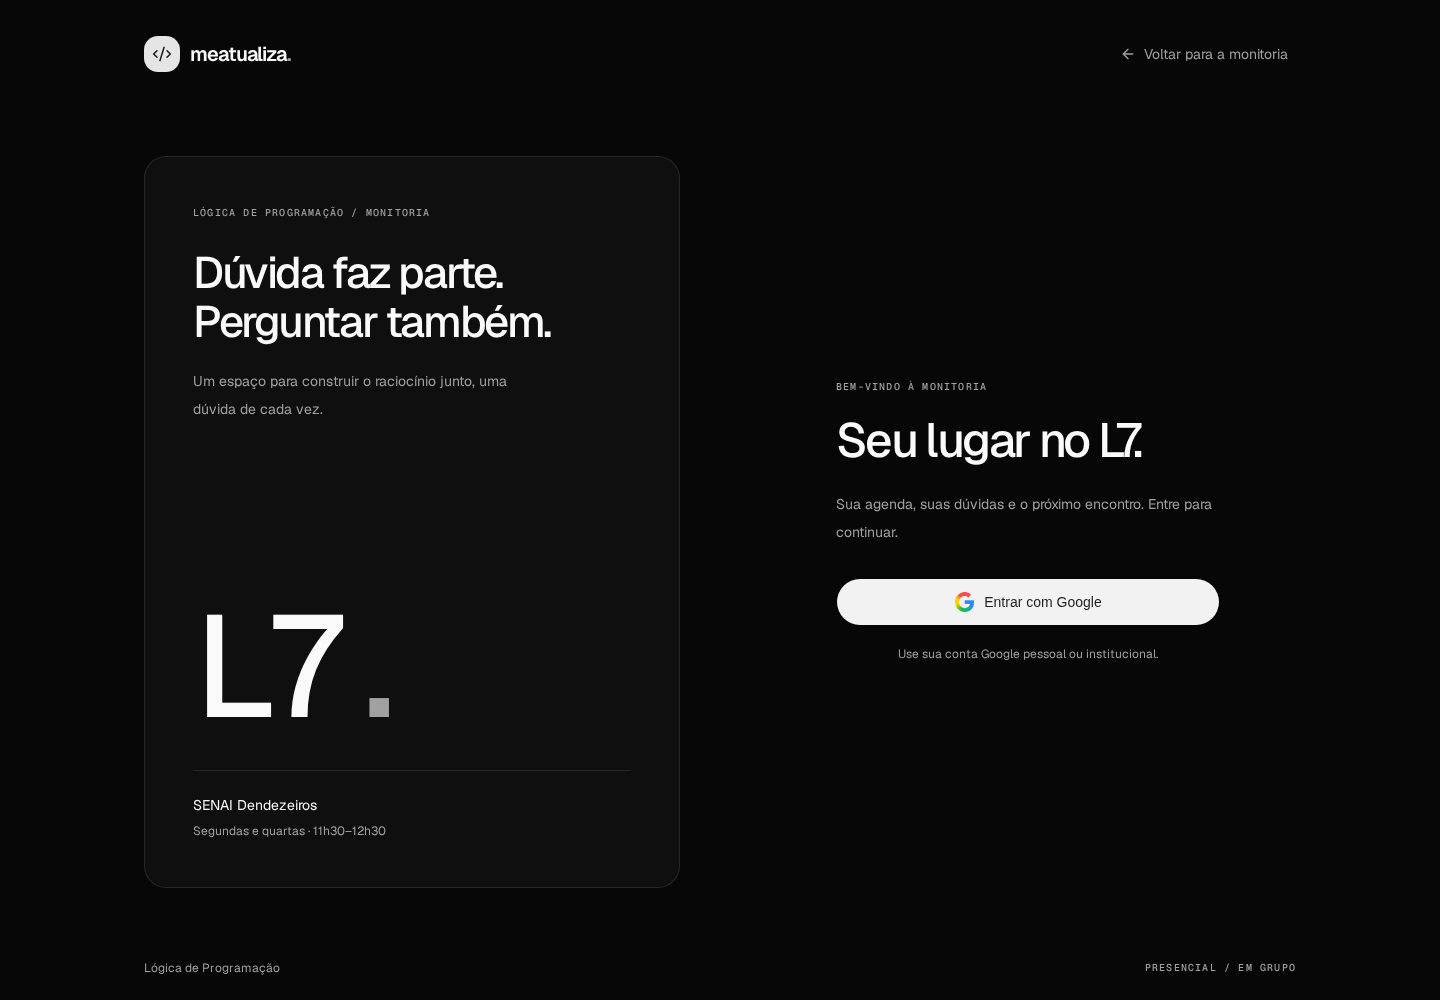
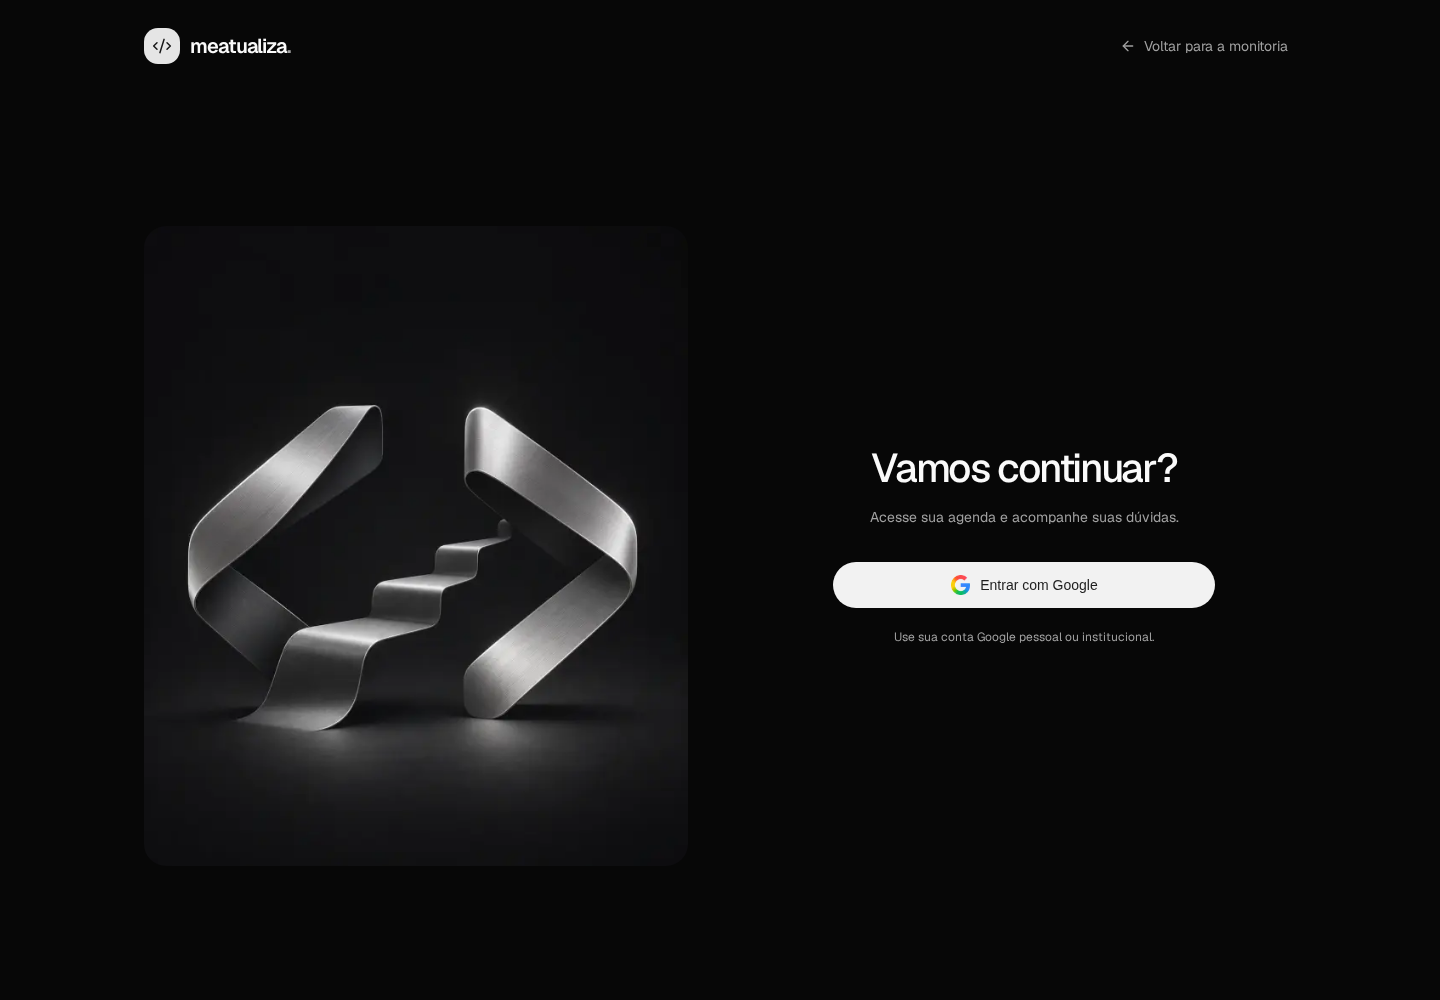
fix(auth): simplify and center sign-in layout

diff --git a/src/app/entrar/page.tsx b/src/app/entrar/page.tsx
@@ -1,4 +1,5 @@
 import type { Metadata } from "next";
+import Image from "next/image";
 import Link from "next/link";
 import { ArrowLeft } from "lucide-react";
 import { Brand } from "@/components/site/brand";
@@ -6,7 +7,6 @@ import { cookies } from "next/headers";
 import { redirect } from "next/navigation";
 import { GoogleSignIn } from "@/features/auth/actions";
 import { getAccountProfile, SESSION_COOKIE } from "@/lib/auth/session";
-import { monitoria } from "@/lib/monitoria";
 
 export const metadata: Metadata = { title: "Acesso à plataforma" };
 
@@ -17,7 +17,7 @@ export default async function SignInPage() {
   if (profile) redirect(profile.role === "monitor" ? "/monitor" : "/aluno");
   return (
     <div className="flex min-h-svh flex-1 flex-col">
-      <header className="site-container flex items-center justify-between gap-4 py-6 sm:py-8">
+      <header className="site-container flex items-center justify-between gap-4 py-4 sm:py-6">
         <Brand />
         <Link
           href="/"
@@ -33,69 +33,40 @@ export default async function SignInPage() {
       <main
         id="conteudo"
         tabIndex={-1}
-        className="site-container grid flex-1 items-center gap-12 py-10 sm:py-12 lg:grid-cols-2 lg:gap-20"
+        className="site-container grid flex-1 items-center gap-12 py-6 lg:grid-cols-2 lg:gap-16 lg:py-8"
       >
-        <aside
-          aria-label="Monitoria no laboratório L7"
-          className="hidden flex-col justify-between self-stretch rounded-3xl border border-border bg-card p-10 lg:flex xl:p-12"
+        <div
+          aria-hidden="true"
+          className="relative hidden h-[min(40rem,calc(100svh-10rem))] overflow-hidden rounded-3xl lg:block"
         >
-          <div>
-            <p className="eyebrow">LÓGICA DE PROGRAMAÇÃO / MONITORIA</p>
-            <p className="mt-7 text-[2.75rem] leading-[1.12] font-medium tracking-[-0.055em]">
-              Dúvida faz parte.
-              <br />
-              Perguntar também.
-            </p>
-            <p className="mt-5 max-w-xs text-sm leading-7 text-muted-foreground">
-              Um espaço para construir o raciocínio junto, uma dúvida de cada
-              vez.
-            </p>
-          </div>
-          <div className="mt-12">
-            <p
-              aria-hidden="true"
-              className="font-mono text-[9rem] leading-none font-medium tracking-[-0.1em]"
-            >
-              L7<span className="text-muted-foreground">.</span>
-            </p>
-            <div className="mt-8 border-t border-border pt-6">
-              <p className="text-sm">{monitoria.instituicao}</p>
-              <p className="mt-2 text-xs text-muted-foreground">
-                Segundas e quartas · {monitoria.horario}
-              </p>
-            </div>
-          </div>
-        </aside>
+          <Image
+            src="/images/sign-in-illustration.webp"
+            alt=""
+            fill
+            loading="eager"
+            sizes="(min-width: 1216px) 544px, (min-width: 1024px) calc(50vw - 64px), 0px"
+            className="object-cover"
+          />
+        </div>
         <section
           aria-labelledby="sign-in-title"
-          className="mx-auto w-full max-w-sm py-4 lg:py-16"
+          className="mx-auto w-full max-w-sm text-center"
         >
-          <p className="eyebrow">BEM-VINDO À MONITORIA</p>
           <h1
             id="sign-in-title"
-            className="mt-4 text-4xl leading-tight font-medium tracking-[-0.055em] sm:text-5xl"
+            className="text-4xl leading-tight font-medium tracking-[-0.055em] sm:text-[2.5rem]"
           >
-            Seu lugar no L7.
+            Vamos continuar?
           </h1>
-          <p className="mt-5 text-sm leading-7 text-muted-foreground">
-            Sua agenda, suas dúvidas e o próximo encontro. Entre para continuar.
+          <p className="mt-3 text-sm leading-6 text-muted-foreground">
+            Acesse sua agenda e acompanhe suas dúvidas.
           </p>
           <GoogleSignIn />
           <p className="mt-4 text-center text-xs leading-6 text-muted-foreground">
             Use sua conta Google pessoal ou institucional.
           </p>
-          <div className="mt-10 border-t border-border pt-6 lg:hidden">
-            <p className="text-sm">{monitoria.instituicao} · Laboratório L7</p>
-            <p className="mt-2 text-xs text-muted-foreground">
-              Segundas e quartas · {monitoria.horario}
-            </p>
-          </div>
         </section>
       </main>
-      <footer className="site-container flex flex-wrap items-center justify-between gap-3 py-6 text-xs text-muted-foreground">
-        <p>{monitoria.disciplina}</p>
-        <p className="eyebrow">PRESENCIAL / EM GRUPO</p>
-      </footer>
     </div>
   );
 }

diff --git a/tests/landing.spec.ts b/tests/landing.spec.ts
@@ -82,8 +82,25 @@ test("leva ao estado real do acesso e permite voltar", async ({
   await page.getByRole("link", { name: "Acessar plataforma" }).last().click();
   await expect(page).toHaveURL(/\/entrar$/);
   await expect(page.getByRole("heading", { level: 1 })).toContainText(
-    "Seu lugar no L7.",
+    "Vamos continuar?",
   );
+  await expect(page.getByRole("contentinfo")).toHaveCount(0);
+  await expect(
+    page.getByText(/SENAI|Laboratório|Segundas e quartas/),
+  ).toHaveCount(0);
+  const illustration = page.locator('img[src*="sign-in-illustration"]');
+  if (info.project.name === "desktop") {
+    await expect(illustration).toBeVisible();
+    await expect
+      .poll(() =>
+        illustration.evaluate(
+          (image: HTMLImageElement) => image.complete && image.naturalWidth > 0,
+        ),
+      )
+      .toBe(true);
+  } else {
+    await expect(illustration).toBeHidden();
+  }
   await expect(
     page.getByRole("button", { name: "Entrar com Google" }),
   ).toBeVisible();
@@ -133,7 +150,7 @@ test("menu móvel navega e devolve o foco ao fechar", async ({
   await expect(page).toHaveURL(/#conteudos$/);
 });
 
-test("não cria rolagem horizontal em telas pequenas e grandes", async ({
+test("mantém a landing responsiva e o acesso centralizado sem rolagem", async ({
   page,
   isMobile,
 }) => {
@@ -154,19 +171,43 @@ test("não cria rolagem horizontal em telas pequenas e grandes", async ({
     ),
   ).toBe(false);
   await page.goto("/entrar");
-  for (const width of [320, 393, 768, 1440]) {
-    await page.setViewportSize({ width, height: 900 });
-    expect(
-      await page.evaluate(
-        () => document.documentElement.scrollWidth > innerWidth,
-      ),
-      `Overflow no acesso na largura ${width}`,
-    ).toBe(false);
+  for (const [width, height] of [
+    [320, 480],
+    [320, 568],
+    [393, 851],
+    [768, 1024],
+    [844, 390],
+    [1024, 390],
+    [1024, 768],
+    [1366, 768],
+    [1440, 900],
+  ]) {
+    await page.setViewportSize({ width, height });
+    await expect
+      .poll(
+        () =>
+          page.evaluate(() => ({
+            horizontal: document.documentElement.scrollWidth > innerWidth,
+            vertical: document.documentElement.scrollHeight > innerHeight,
+          })),
+        { message: `Rolagem no acesso em ${width} × ${height}` },
+      )
+      .toEqual({ horizontal: false, vertical: false });
     await expect(
       page.getByRole("button", { name: "Entrar com Google" }),
-    ).toBeVisible();
+    ).toBeInViewport();
     await expect(
       page.getByRole("link", { name: "Voltar para a monitoria" }),
-    ).toBeVisible();
+    ).toBeInViewport();
+    const centerOffset = await page.getByRole("main").evaluate((main) => {
+      const bounds = main.getBoundingClientRect();
+      const form = main.querySelector("section")!.getBoundingClientRect();
+      return Math.abs(
+        form.top + form.height / 2 - (bounds.top + bounds.height / 2),
+      );
+    });
+    expect(centerOffset, `Centralização em ${width} × ${height}`).toBeLessThan(
+      1,
+    );
   }
 });

diff --git a/tests/auth/access.spec.ts b/tests/auth/access.spec.ts
@@ -37,7 +37,7 @@ test("Google, perfil persistido, recarga e saída", async ({
   await page.goto("/");
   await page.goto("/entrar");
   await expect(page.getByRole("heading", { level: 1 })).toHaveText(
-    "Seu lugar no L7.",
+    "Vamos continuar?",
   );
   await expect(
     page.getByRole("button", { name: "Entrar com Google" }),
@@ -164,6 +164,7 @@ test("falhas de entrada e saída preservam o estado e permitem nova tentativa", 
   page,
   context,
 }) => {
+  await page.setViewportSize({ width: 320, height: 480 });
   await page.goto("/entrar");
   await page.route("**/api/auth/session", (route) =>
     route.fulfill({
@@ -180,6 +181,10 @@ test("falhas de entrada e saída preservam o estado e permitem nova tentativa", 
     "Serviço indisponível",
   );
   await expect(page.getByRole("main").getByRole("alert")).toBeFocused();
+  await expect(page.getByRole("main").getByRole("alert")).toBeInViewport();
+  await expect(
+    page.getByRole("button", { name: "Entrar com Google" }),
+  ).toBeInViewport();
   expect(
     (await context.cookies()).some(
       (cookie) => cookie.name === "meatualiza_session",

diff --git a/public/images/README.md b/public/images/README.md
@@ -1,0 +1,7 @@
+# Sign-in illustration
+
+[sign-in-illustration.webp](./sign-in-illustration.webp) is an original decorative illustration generated with the built-in `image_gen` tool for Meatualiza. It is not a photograph of the tutoring venue. The generated PNG was converted to WebP at quality 85 without changing the composition.
+
+## Generation prompt
+
+Create an original editorial 3D illustration for the left side of a dark, minimal Brazilian programming tutoring login screen. Portrait 4:5 composition. A single sculptural continuous folded ribbon forming an elegant pair of open programming brackets and a small ascending path between them, like reasoning taking shape. Satin silver and matte graphite materials, subtle brushed surfaces, soft white rim lighting, deep near-black charcoal studio background, quiet architectural composition, tactile and sophisticated, restrained and inviting. Keep the sculpture in the central 65% with generous dark negative space around it. Gentle grounding shadow. Entirely monochrome, no neon, no purple, no gradient wallpaper, no screen mockup, no laptop, no people, no text, no letters, no logos, no badges, no school or campus imagery. This is a finished standalone raster illustration, not a UI design. No frame, no border.
